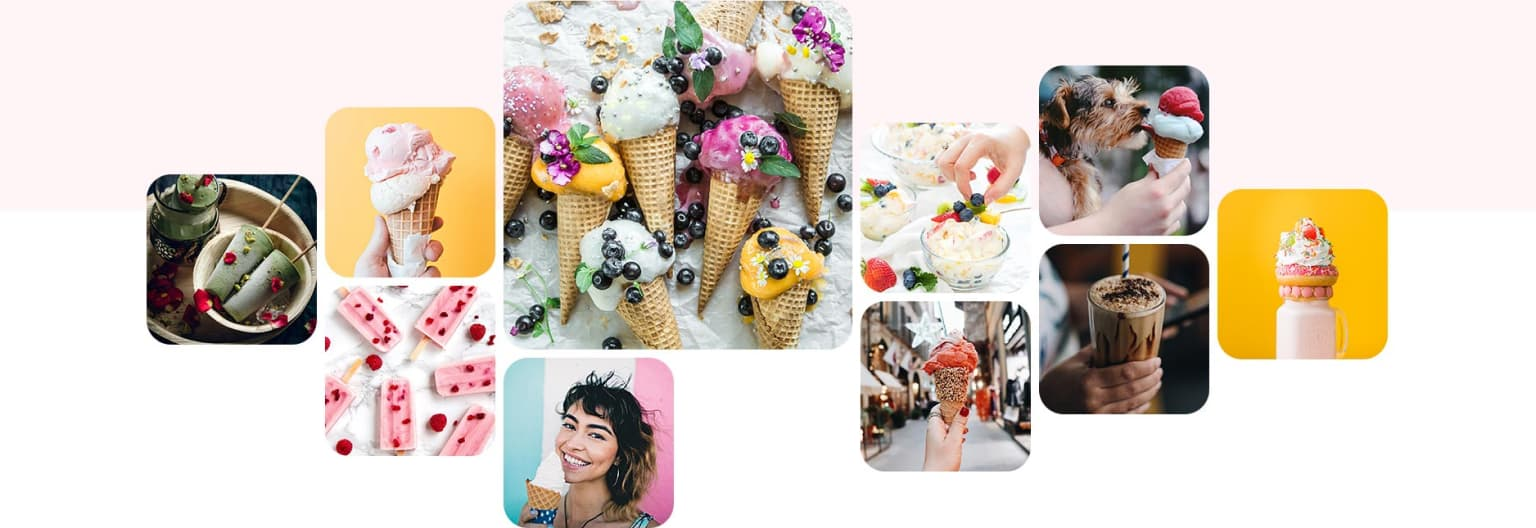
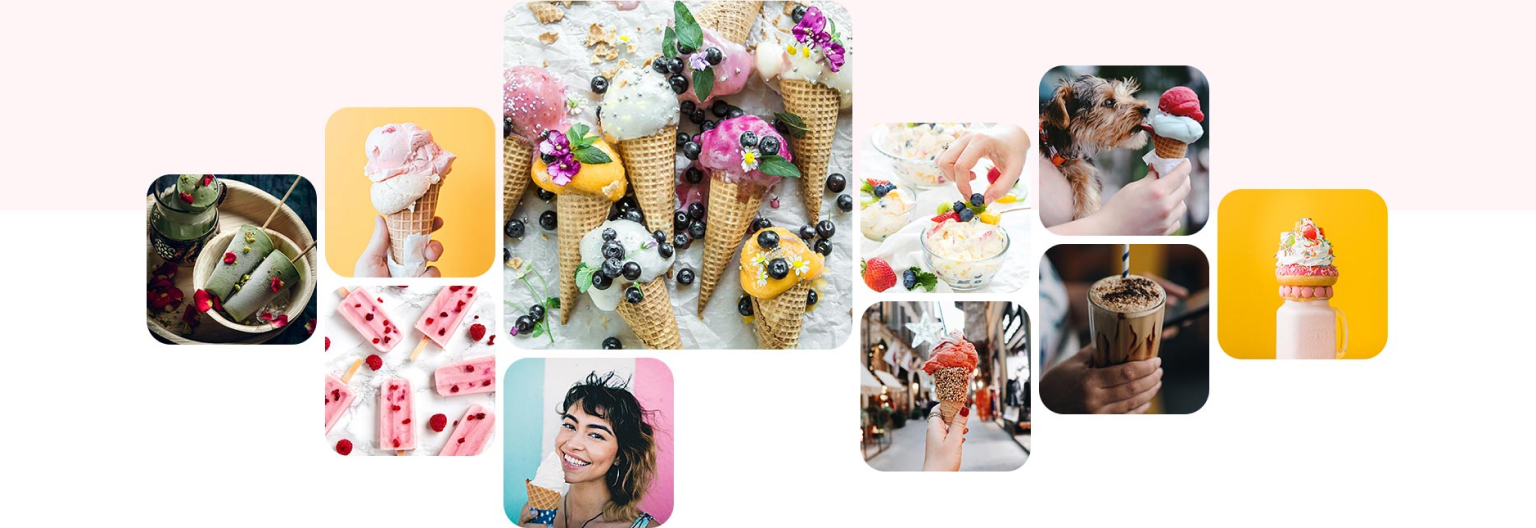
hope it is better now

diff --git a/css/main.min.css b/css/main.min.css
@@ -1,1 +1,1 @@
-*,*::after,*::before{margin:0;padding:0;text-decoration:none;list-style:none;-webkit-box-sizing:border-box;box-sizing:border-box}body{margin:auto;font-family:"DM Sans","Titan One",sans-serif}@media screen and (max-width: 768px){body body{min-width:320px}}@media screen and (min-width: 1280px){body body{width:100%}}.container{min-width:320px;padding:0 20px;margin:0 auto}@media screen and (min-width: 768px){.container{padding:0 34px}}@media screen and (min-width: 1280px){.container{padding:0 116px;width:1280px}}.hero{background-color:#ffb8ca}.section{color:#000}.about{display:-webkit-box;display:-ms-flexbox;display:flex}.gallery__pic{width:100%}/*# sourceMappingURL=main.min.css.map */
+*,*::after,*::before{margin:0;padding:0;text-decoration:none;list-style:none;-webkit-box-sizing:border-box;box-sizing:border-box}body{margin:auto;font-family:"DM Sans","Titan One",sans-serif}@media screen and (max-width: 768px){body body{min-width:320px}}@media screen and (min-width: 1280px){body body{width:100%}}.container{min-width:320px;padding:0 20px;margin:0 auto}@media screen and (min-width: 768px){.container{padding:0 34px}}@media screen and (min-width: 1280px){.container{padding:0 116px;width:1280px}}.hero{background-color:#ffb8ca}.section{color:#000}.about{display:-webkit-box;display:-ms-flexbox;display:flex}.gallery__pic{width:100%}.gallery__background{background-image:-webkit-gradient(linear, left top, left bottom, color-stop(39.5%, #fff5f6), color-stop(39.5%, #ffffff), to(#ffffff));background-image:linear-gradient(to bottom, #fff5f6 39.5%, #ffffff 39.5%, #ffffff 100%);background-size:cover}/*# sourceMappingURL=main.min.css.map */

diff --git a/src/partials/gallery.html b/src/partials/gallery.html
@@ -1,21 +1,23 @@
-<div>
-  <picture>
-    <source
-      srcset="./images/gallery/gallery_mobile.jpg 1x, ./images/gallery/gallery_mobile@2x.jpg 2x"
-      media="(max-width: 767px)"
-    />
-    <source
-      srcset="./images/gallery/gallery_tablet.jpg 1x, ./images/gallery/gallery_tablet@2x.jpg 2x"
-      media="(max-width: 1199px)"
-    />
-    <source
-      srcset="./images/gallery/gallery_desktop.jpg 1x, ./images/gallery/gallery_desktop@2x.jpg 2x"
-      media="(min-width: 1200px)"
-    />
-    <img
-      class="gallery__pic"
-      src="./images/gallery/gallery_mobile.jpg"
-      alt="Various pictures of ice cream"
-    />
-  </picture>
-</div>
+<section class="gallery__background">
+  <div class="container">
+    <picture>
+      <source
+        srcset="./images/gallery/gallery_mobile.jpg 1x, ./images/gallery/gallery_mobile@2x.jpg 2x"
+        media="(max-width: 767px)"
+      />
+      <source
+        srcset="./images/gallery/gallery_tablet.jpg 1x, ./images/gallery/gallery_tablet@2x.jpg 2x"
+        media="(max-width: 1199px)"
+      />
+      <source
+        srcset="./images/gallery/gallery_desktop.jpg 1x, ./images/gallery/gallery_desktop@2x.jpg 2x"
+        media="(min-width: 1200px)"
+      />
+      <img
+        class="gallery__pic"
+        src="./images/gallery/gallery_mobile.jpg"
+        alt="Various pictures of ice cream"
+      />
+    </picture>
+  </div>
+</section>

diff --git a/css/main.css b/css/main.css
@@ -62,4 +62,10 @@ body {
 
 .gallery__pic {
   width: 100%;
+}
+
+.gallery__background {
+  background-image: -webkit-gradient(linear, left top, left bottom, color-stop(39.5%, #fff5f6), color-stop(39.5%, #ffffff), to(#ffffff));
+  background-image: linear-gradient(to bottom, #fff5f6 39.5%, #ffffff 39.5%, #ffffff 100%);
+  background-size: cover;
 }/*# sourceMappingURL=main.css.map */

diff --git a/src/sass/components/_gallery.scss b/src/sass/components/_gallery.scss
@@ -1,3 +1,12 @@
 .gallery__pic {
   width: 100%;
 }
+.gallery__background {
+  background-image: linear-gradient(
+    to bottom,
+    get-gallery-background(dark-bg-color) 39.5%,
+    get-gallery-background(light-bg-color) 39.5%,
+    get-gallery-background(light-bg-color) 100%
+  );
+  background-size: cover;
+}

diff --git a/src/sass/utils/_variables.scss b/src/sass/utils/_variables.scss
@@ -3,3 +3,13 @@ $secondary-color: #ffb8ca;
 $main-font: 'DM Sans';
 $title-font: 'Titan One';
 $test: black;
+
+// --- GALLERY ---
+
+$gallery-background: (
+  'light-bg-color': #ffffff,
+  'dark-bg-color': #fff5f6,
+);
+@function get-gallery-background($key) {
+  @return map-get($gallery-background, $key);
+} ;
